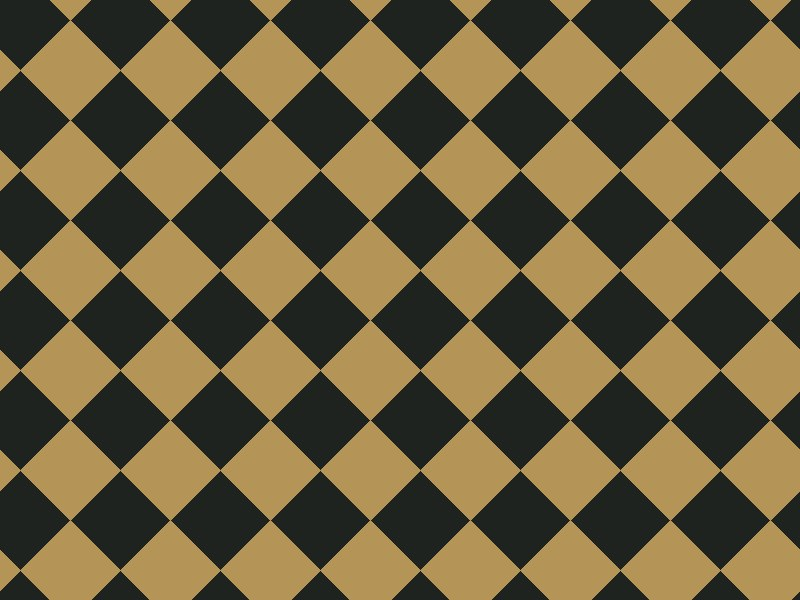
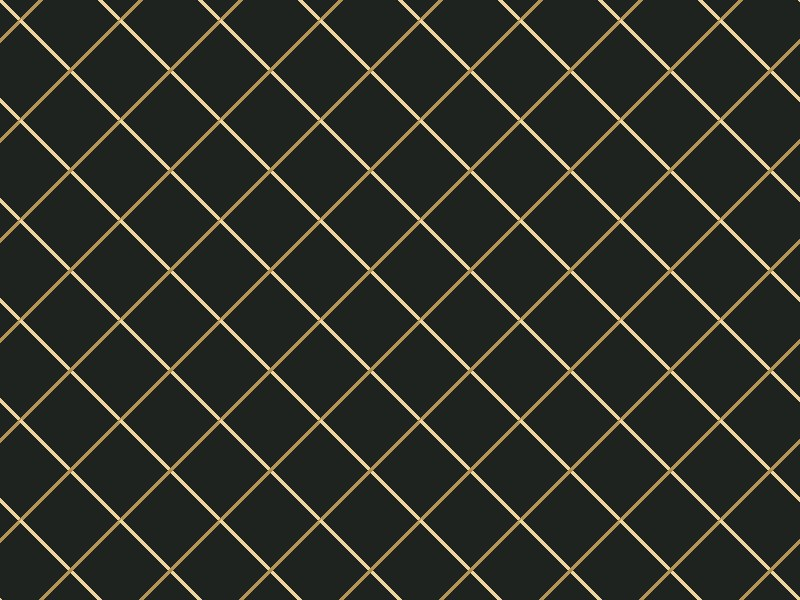
fix: prevent duplicate visual references in A/B rounds

diff --git a/tests/test_selection.py b/tests/test_selection.py
@@ -1,5 +1,55 @@
 from backend.image_db import ImageDB
 from backend.selection import plan_pairs, validate_pairs
+from PIL import Image
+import pytest
+from scripts.build_manifest import build_manifest
+from scripts.fetch_sample_images import CATEGORIES, make_image
+
+
+def test_comparisons_never_repeat_actual_image_content():
+    db = ImageDB()
+    for seed in range(20):
+        seen = set()
+        for pair in plan_pairs(db, [], str(seed)):
+            for image_id in (pair.left_id, pair.right_id):
+                with Image.open(db.path(image_id)) as image:
+                    pixels = image.convert("RGB").tobytes()
+                assert pixels not in seen, f"Repeated image content: {image_id}, seed {seed}"
+                seen.add(pixels)
+
+
+def test_generated_patterns_are_visually_distinct():
+    pixels = [make_image("patterns", index)[0].tobytes() for index in range(25)]
+    assert len(set(pixels)) == 25
+
+
+def test_library_filters_duplicate_pixels_under_different_ids(tmp_path):
+    for category_index, category in enumerate(CATEGORIES):
+        folder = tmp_path / "images/library" / category
+        folder.mkdir(parents=True)
+        for index in range(6):
+            Image.new("RGB", (16, 16), (index*35, category_index*50, 80)).save(folder / f"{index}.png")
+        # Same visual content in a differently sized and named file.
+        Image.new("RGB", (64, 64), (0, category_index*50, 80)).save(folder / "z-copy.png")
+    entries = build_manifest(tmp_path)
+    db = ImageDB(tmp_path)
+    assert len(db.images) == 24
+    assert all(len(db.category(category)) == 6 for category in CATEGORIES)
+    excluded = next(entry for entry in entries if entry["category"] == "architecture" and entry["path"].endswith("z-copy.png"))
+    raw = [pair.model_dump() for pair in plan_pairs(db, [], "duplicates")]
+    raw[0]["left_id"] = excluded["id"]
+    assert validate_pairs(db, raw, []) is None
+
+
+def test_library_requires_six_distinct_images_per_category(tmp_path):
+    for category_index, category in enumerate(CATEGORIES):
+        folder = tmp_path / "images/library" / category
+        folder.mkdir(parents=True)
+        for index in range(6):
+            Image.new("RGB", (16, 16), (0, category_index*50, 80)).save(folder / f"{index}.png")
+    build_manifest(tmp_path)
+    with pytest.raises(ValueError, match="distinct"):
+        ImageDB(tmp_path)
 
 
 def test_pair_contract():

diff --git a/backend/image_db.py b/backend/image_db.py
@@ -1,5 +1,8 @@
 import json
+from hashlib import sha256
 from pathlib import Path
+
+from PIL import Image, ImageOps
 
 from scripts.build_manifest import ROOT, build_manifest
 
@@ -12,16 +15,26 @@ class ImageDB:
         manifest = self.root / "images/manifest.json"
         entries = json.loads(manifest.read_text())["images"] if manifest.exists() else build_manifest(self.root)
         self.images = {}
+        seen_ids, seen_content = set(), set()
         for entry in entries:
             resolved = (self.root / entry["path"]).resolve()
             if entry["category"] not in CATEGORIES or not resolved.is_relative_to((self.root / "images/library").resolve()):
                 raise ValueError("Invalid library manifest path or category.")
-            if not resolved.is_file() or entry["id"] in self.images:
+            if not resolved.is_file() or entry["id"] in seen_ids:
                 raise ValueError("Missing image or duplicate id in manifest; rebuild it.")
+            seen_ids.add(entry["id"])
+            # Compare visual content, not filenames or encoded file bytes. Normalizing
+            # also catches copies with different metadata or image dimensions.
+            with Image.open(resolved) as source:
+                thumbnail = ImageOps.exif_transpose(source).convert("RGB").resize((64, 64), Image.Resampling.LANCZOS)
+                fingerprint = sha256(thumbnail.tobytes()).digest()
+            if fingerprint in seen_content:
+                continue
+            seen_content.add(fingerprint)
             self.images[entry["id"]] = entry
         for category in CATEGORIES:
             if len(self.category(category)) < 6:
-                raise ValueError(f"Add at least 6 images to {category}, then rebuild the manifest.")
+                raise ValueError(f"Add at least 6 distinct images to {category}, then rebuild the manifest.")
 
     def category(self, category):
         return [entry for entry in self.images.values() if entry["category"] == category]

diff --git a/scripts/fetch_sample_images.py b/scripts/fetch_sample_images.py
@@ -83,7 +83,9 @@ def make_image(category, index):
                 x = rng.randrange(w)
                 draw.line([(x, 0), (x+60, 200), (x-30, 420), (x+100, 600)], fill=fg, width=2)
     else:
-        style = index % 5
+        # Shift the motif whenever the ten-color palette cycles. Otherwise
+        # indices 0/10/20 (and so on) produce identical pattern images.
+        style = (index + index // len(PALETTES)) % 5
         for y in range(-80, h+100, 100):
             for x in range(-80, w+100, 100):
                 if style == 0 and (x+y)//100 % 2:

diff --git a/docs/VERIFICATION.md b/docs/VERIFICATION.md
@@ -4,13 +4,14 @@ Verified locally on Windows on 2026-10-17 with Python 3.12 and headless Microsof
 
 ## Automated backend checks
 
-`python -m pytest -q`: **24 passed**, approximately 3 seconds.
+`python -m pytest -q`: **28 passed**, approximately 10 seconds after adding image-content regression coverage.
 
 - Strict token schema: exact fields, hex colors, enums and heading-weight bounds.
 - Text/background contrast correction reaches 4.5:1 and changes no other token.
 - JPEG preparation handles transparency and limits the longest side to 768 px.
 - Distinct input palettes produce different offline tokens.
 - Exactly ten same-category pairs, 20 unique ids, all four categories at least twice, reproducible seeded plans.
+- Actual image pixels never repeat across 20 complete seeded comparison plans. All 25 generated patterns have different content. Library loading excludes duplicate normalized pixels under different names or dimensions, and rejects categories with fewer than six distinct references.
 - Full draw and upload session flows, cached extraction, token file creation, latest-token retrieval and reset.
 - Corrupt/oversized/excess uploads rejected; unknown sessions and incorrect phases rejected.
 - Duplicate vote retries do not advance a round twice; prefetch does not advance the session.
@@ -50,3 +51,7 @@ Reviewed against the complete supplied specification: local-only storage and hos
 The integration uses the default `claude-sonnet-4-6` string and `VLM_MODEL` override as specified. Real Anthropic output, service availability and paid-model latency remain **unverified without a configured API key**. All network failure paths used by the app are covered by local fakes or deterministic fallback tests. The original “under 15 seconds with the real VLM” target cannot be promised for an external service; the app enforces a 14-second model-extraction deadline and falls back offline.
 
 Optional adaptive replanning after round five and automated VLM image tagging are intentionally omitted from the MVP. Before/after, JSON download and CSS export are implemented.
+
+## Duplicate-reference correction
+
+The initial procedural pattern generator cycled ten palettes and five motifs together, creating identical images every ten indices. ID-only pairing checks did not detect that different filenames contained the same pixels. The motif now shifts on each palette cycle, the 15 repeated sample assets were replaced, and library loading fingerprints normalized image content before exposing references to either seeded or model-planned selection. A previously failing regression now passes. Existing manifests and image ids remain compatible.

diff --git a/README.md b/README.md
@@ -71,7 +71,7 @@ images/library/
   patterns/      # checkers, organic lines, dots, grids, floral
 ```
 
-Aim for **25 per category**, with clear aesthetic contrasts; **at least 6 per category** are needed for a ten-round plan. PNG, JPG/JPEG and WebP are supported. Rebuild with the virtual environment Python:
+Aim for **25 per category**, with clear aesthetic contrasts; **at least 6 distinct images per category** are needed for a ten-round plan. Duplicate visual content is excluded when the library loads, even under different filenames or image dimensions. PNG, JPG/JPEG and WebP are supported. Rebuild with the virtual environment Python:
 
 ```sh
 # macOS / Linux
